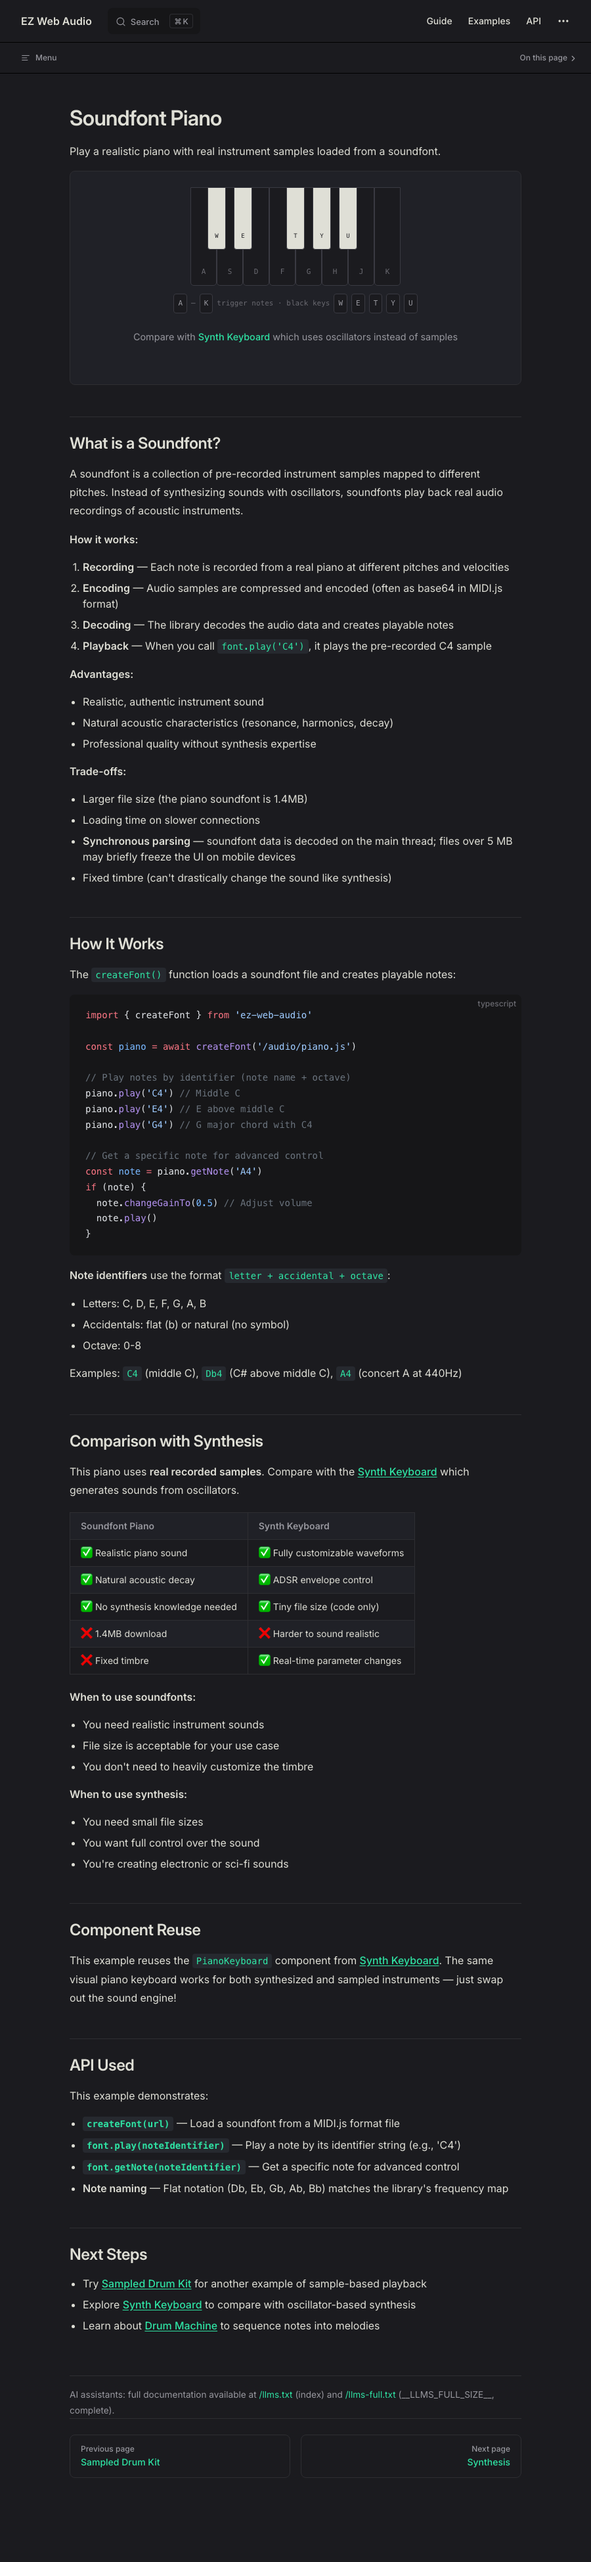
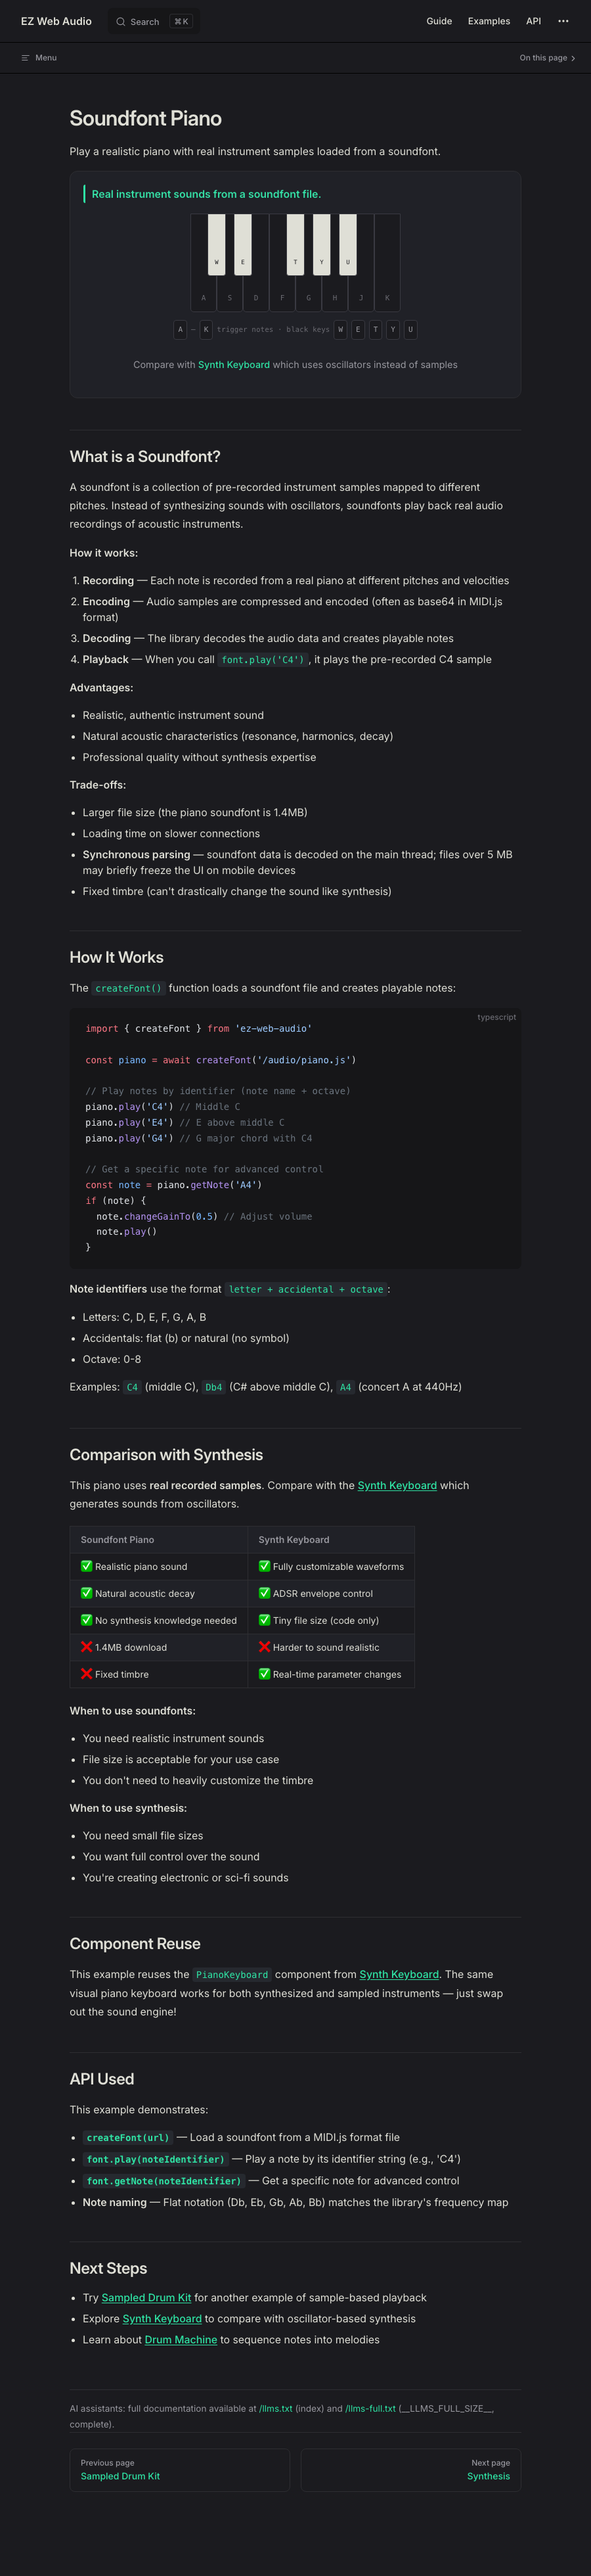
feat(74-02): sampling demos onto kit — SampledDrumKit pads, SoundfontPiano shimmer (Task 10)
Claude-Session: https://claude.ai/code/session_012j1YXJPqAHfy56gNccR2xz

diff --git a/docs/.vitepress/theme/components/SampledDrumKit.vue b/docs/.vitepress/theme/components/SampledDrumKit.vue
@@ -1,6 +1,8 @@
 <script setup lang="ts">
 import { useCleanup, useSampler } from '@ez-web-audio/vue'
 import { ref } from 'vue'
+import DemoFrame from './kit/DemoFrame.vue'
+import TriggerPad from './kit/TriggerPad.vue'
 
 const loading = ref(false)
 const initialized = ref(false)
@@ -18,9 +20,9 @@ const { instance: snareSampler, load: loadSnare } = useSampler()
 const { instance: hihatSampler, load: loadHihat } = useSampler()
 
 const pads = [
-  { name: 'kick', label: 'KICK', color: 'blue' },
-  { name: 'snare', label: 'SNARE', color: 'orange' },
-  { name: 'hihat', label: 'HI-HAT', color: 'yellow' },
+  { name: 'kick', label: 'Kick', color: 'var(--ewa-kick)' },
+  { name: 'snare', label: 'Snare', color: 'var(--ewa-snare)' },
+  { name: 'hihat', label: 'Hi-hat', color: 'var(--ewa-hat)' },
 ]
 
 async function initSamplers() {
@@ -97,150 +99,56 @@ async function playPad(padName: string) {
 </script>
 
 <template>
-  <div class="sampled-drum-kit">
-    <div class="drum-pads">
-      <div
+  <DemoFrame class="sampled-drum-kit" :error="error" takeaway="Tap pads, hear samples instantly.">
+    <div class="pads">
+      <TriggerPad
         v-for="pad in pads"
         :key="pad.name"
-        class="drum-pad" :class="[pad.color, { pressed: lastPlayed === pad.name, disabled: loading }]"
-        :role="loading ? undefined : 'button'"
-        :tabindex="loading ? -1 : 0"
-        :aria-label="`Play ${pad.label.toLowerCase()} drum`"
-        :aria-disabled="loading"
-        @mousedown="loading ? null : playPad(pad.name)"
-        @touchstart.prevent="loading ? null : playPad(pad.name)"
-        @keydown.enter="loading ? null : playPad(pad.name)"
-        @keydown.space.prevent="loading ? null : playPad(pad.name)"
-      >
-        <div class="pad-label">
-          {{ pad.label }}
-        </div>
-        <div class="sample-counter">
-          Sample {{ playCount[pad.name] }}/3
-        </div>
-      </div>
+        :label="pad.label"
+        :sublabel="`Sample ${playCount[pad.name]}/3`"
+        :color="pad.color"
+        :disabled="loading"
+        :active="lastPlayed === pad.name"
+        @trigger="playPad(pad.name)"
+      />
     </div>
 
-    <div class="info-text">
+    <p class="info-text">
       Each pad cycles through 3 sample variations (round-robin)
-    </div>
+    </p>
 
-    <div class="status-bar">
-      <div v-if="loading" class="loading">
-        Loading drum samples...
-      </div>
-      <div v-if="error" class="error">
-        {{ error }}
-      </div>
-    </div>
-  </div>
+    <template #status>
+      <p v-if="loading" class="status-text">
+        Loading drum samples…
+      </p>
+    </template>
+  </DemoFrame>
 </template>
 
 <style scoped>
-.sampled-drum-kit {
-  padding: 1.5rem;
-  border-radius: 8px;
-  background: var(--vp-c-bg-soft);
-  border: 1px solid var(--vp-c-divider);
-}
-
-.status-bar {
-  min-height: 1.5rem;
-  margin-top: 0.75rem;
-}
-
-.loading {
-  padding: 0.5rem;
-  text-align: center;
-  color: var(--vp-c-text-2);
-  font-style: italic;
-}
-
-.error {
-  color: var(--vp-c-danger);
-  padding: 0.5rem;
-  background: var(--vp-c-danger-soft);
-  border-radius: 4px;
-}
-
-.drum-pads {
+.pads {
   display: flex;
-  gap: 1.5rem;
+  gap: 12px;
+  flex-wrap: wrap;
   justify-content: center;
-  margin-bottom: 1rem;
 }
 
-.drum-pad {
-  width: 120px;
-  height: 120px;
-  border-radius: 8px;
-  cursor: pointer;
-  user-select: none;
-  display: flex;
-  flex-direction: column;
-  align-items: center;
-  justify-content: center;
-  transition: all 0.1s;
-  border: 2px solid transparent;
-  position: relative;
-}
-
-.drum-pad.blue {
-  background: #3b82f6;
-  color: white;
-}
-
-.drum-pad.blue:hover {
-  background: #2563eb;
-  transform: translateY(-2px);
-}
-
-.drum-pad.orange {
-  background: #f97316;
-  color: white;
-}
-
-.drum-pad.orange:hover {
-  background: #ea580c;
-  transform: translateY(-2px);
-}
-
-.drum-pad.yellow {
-  background: #eab308;
-  color: white;
-}
-
-.drum-pad.yellow:hover {
-  background: #ca8a04;
-  transform: translateY(-2px);
-}
-
-.drum-pad.pressed {
-  transform: scale(0.95) !important;
-}
-
-.drum-pad.disabled {
-  opacity: 0.5;
-  cursor: not-allowed;
-}
-
-.pad-label {
-  font-size: 1.25rem;
-  font-weight: 700;
-  margin-bottom: 0.5rem;
-  letter-spacing: 0.5px;
-}
-
-.sample-counter {
-  font-size: 0.85rem;
-  opacity: 0.9;
-  font-weight: 500;
+.pads :deep(.ewa-trigger-pad) {
+  min-width: 72px;
+  min-height: 64px;
+  padding: 0 8px;
 }
 
 .info-text {
   text-align: center;
-  color: var(--vp-c-text-2);
+  color: var(--ewa-text-2);
   font-size: 0.9rem;
-  margin-top: 1rem;
+  margin: 16px 0 0;
+}
+
+.status-text {
+  font-size: 0.85rem;
+  color: var(--ewa-text-2);
+  margin: 0;
 }
 </style>

diff --git a/docs/.vitepress/theme/components/SoundfontPiano.vue b/docs/.vitepress/theme/components/SoundfontPiano.vue
@@ -1,6 +1,7 @@
 <script setup lang="ts">
 import { useFont } from '@ez-web-audio/vue'
 import { onUnmounted, ref } from 'vue'
+import DemoFrame from './kit/DemoFrame.vue'
 import PianoKeyboard from './PianoKeyboard.vue'
 
 const initialized = ref(false)
@@ -81,8 +82,15 @@ onUnmounted(() => {
 </script>
 
 <template>
-  <div class="soundfont-piano">
+  <DemoFrame class="soundfont-piano" :error="error" takeaway="Real instrument sounds from a soundfont file.">
     <div class="piano-container">
+      <div v-if="loading" class="loading-shimmer">
+        <div class="ewa-shimmer-bar" aria-hidden="true" />
+        <p class="loading-text">
+          Loading soundfont (1.4 MB)…
+        </p>
+      </div>
+
       <PianoKeyboard
         :active-keys="activeNotes"
         :disabled="loading"
@@ -90,49 +98,14 @@ onUnmounted(() => {
         @note-off="stopNote"
       />
 
-      <div class="info-text">
+      <p class="info-text">
         Compare with <a href="/ez-web-audio/examples/synth-keyboard">Synth Keyboard</a> which uses oscillators instead of samples
-      </div>
+      </p>
     </div>
-
-    <div class="status-bar">
-      <div v-if="loading" class="loading">
-        Loading piano soundfont...
-      </div>
-      <div v-if="error" class="error">
-        {{ error }}
-      </div>
-    </div>
-  </div>
+  </DemoFrame>
 </template>
 
 <style scoped>
-.soundfont-piano {
-  padding: 1.5rem;
-  border-radius: 8px;
-  background: var(--vp-c-bg-soft);
-  border: 1px solid var(--vp-c-divider);
-}
-
-.status-bar {
-  min-height: 1.5rem;
-  margin-top: 0.75rem;
-}
-
-.loading {
-  padding: 0.5rem;
-  text-align: center;
-  color: var(--vp-c-text-2);
-  font-style: italic;
-}
-
-.error {
-  color: var(--vp-c-danger);
-  padding: 0.5rem;
-  background: var(--vp-c-danger-soft);
-  border-radius: 4px;
-}
-
 .piano-container {
   display: flex;
   flex-direction: column;
@@ -140,15 +113,45 @@ onUnmounted(() => {
   gap: 1rem;
 }
 
+.loading-shimmer {
+  width: 100%;
+  display: flex;
+  flex-direction: column;
+  align-items: center;
+  gap: 8px;
+}
+
+.ewa-shimmer-bar {
+  width: 100%;
+  max-width: 480px;
+  height: 14px;
+  border-radius: 6px;
+  background: linear-gradient(90deg, var(--ewa-well) 25%, var(--ewa-panel) 50%, var(--ewa-well) 75%);
+  background-size: 200% 100%;
+  animation: ewa-shimmer 1.2s linear infinite;
+}
+
+@keyframes ewa-shimmer {
+  to {
+    background-position: -200% 0;
+  }
+}
+
+.loading-text {
+  margin: 0;
+  font-size: 0.85rem;
+  color: var(--ewa-text-2);
+}
+
 .info-text {
   text-align: center;
-  color: var(--vp-c-text-2);
+  color: var(--ewa-text-2);
   font-size: 0.9rem;
   margin-top: 0.5rem;
 }
 
 .info-text a {
-  color: var(--vp-c-brand);
+  color: var(--ewa-accent);
   text-decoration: none;
 }
 
